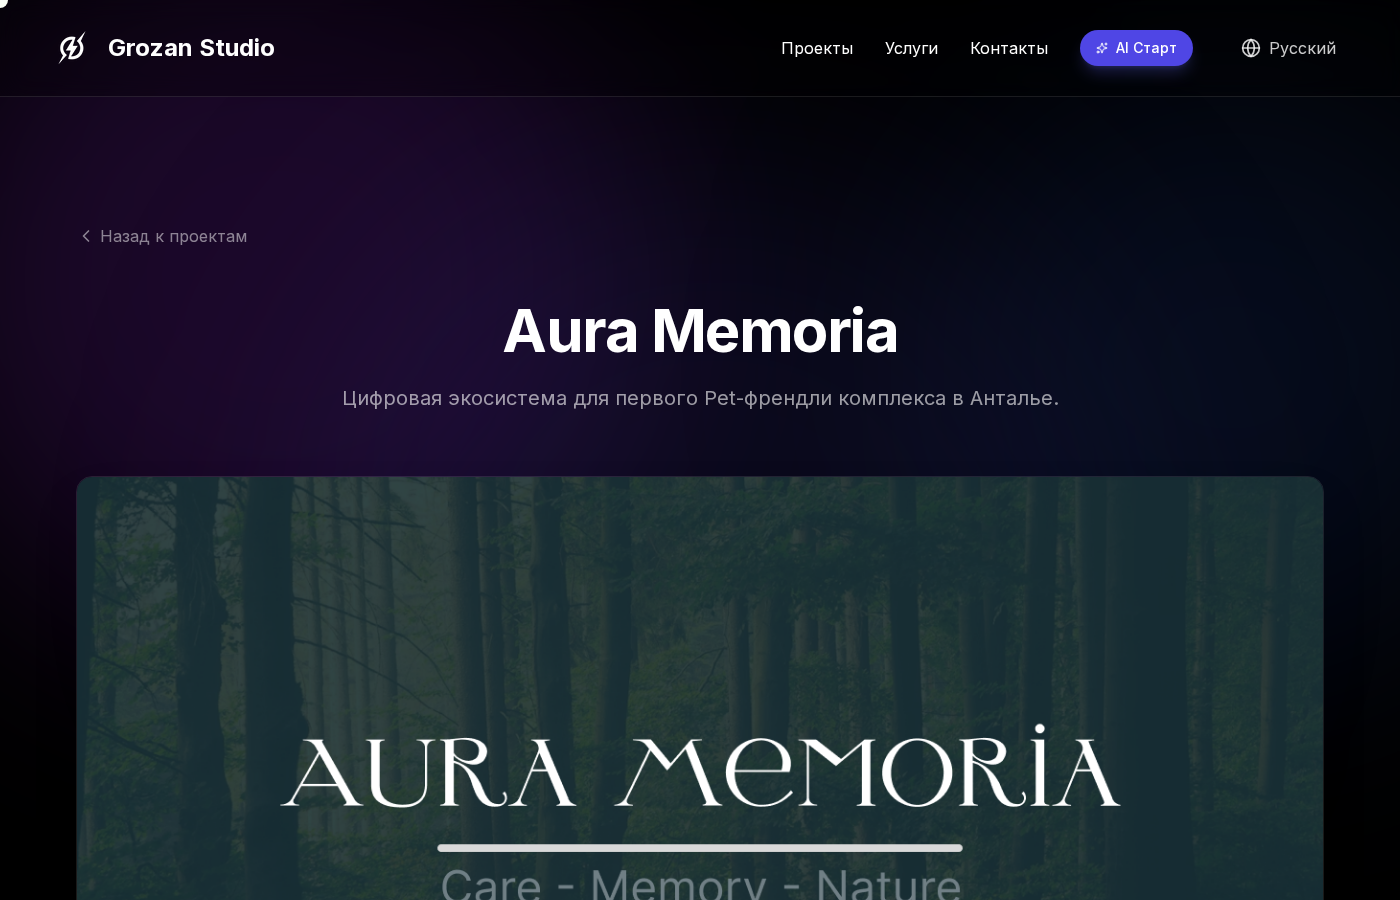
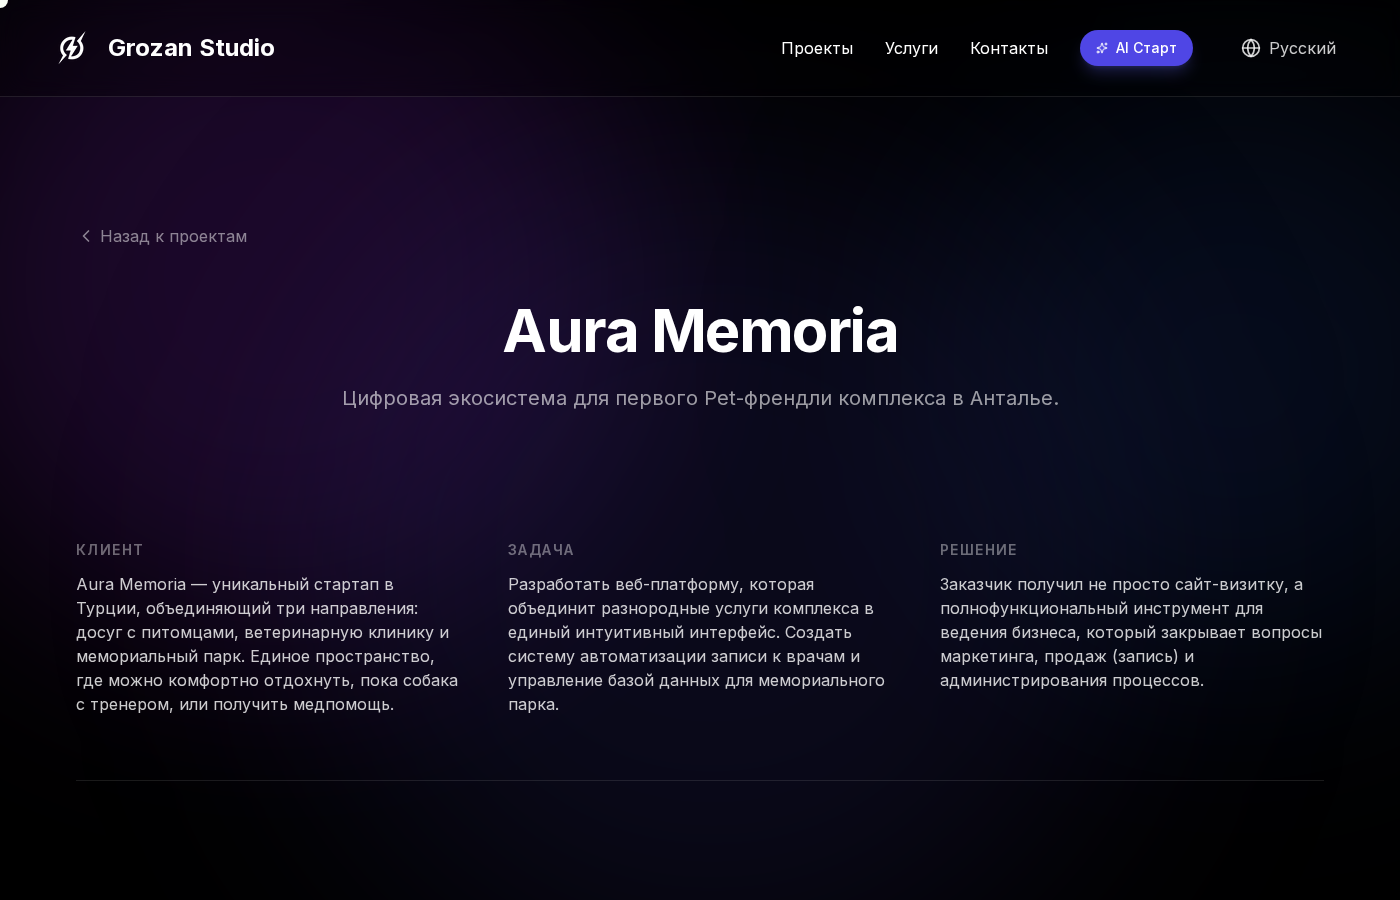
Update Aura Memoria case study with new structure and image paths
- Updated `src/data/projects.ts`:
  - Changed 'Digital Memorial' image dimensions to 1200x600.
  - Linked real image paths (`/images/am-white.png`, `am-dark.png`, etc.) for Aura Memoria.
- Updated `src/app/projects/[id]/page.tsx`:
  - Removed the cover image (preview) from the top of the page for projects using the new modular structure.
  - Ensured the `ProjectOverviewBlock` (Client/Task/Solution) appears immediately after the title.
- Updated `CompareSlider.tsx` and `ContentFeature.tsx`:
  - Added support for rendering `<img>` tags when a `url` is provided in the block data, falling back to placeholders otherwise.
- Verified changes via Playwright (screenshots confirm correct layout and removal of cover image).

diff --git a/src/components/project-blocks/CompareSlider.tsx b/src/components/project-blocks/CompareSlider.tsx
@@ -70,36 +70,53 @@ export const CompareSlider: React.FC<CompareSliderProps> = ({ block }) => {
         onClick={handleMove} // Allow click to jump
       >
         {/* Right Image (Background - Dark Mode usually) */}
-        <div className="absolute inset-0 bg-neutral-900 flex items-center justify-center">
-            {/* We use the placeholder here, but in real app it would be an <img> */}
-            <div className="absolute inset-0 flex items-center justify-center bg-[#0a0a0a]">
-                <ImagePlaceholder
-                    label={block.rightImage.label}
-                    dimensions={block.rightImage.dimensions}
-                    aspectRatio="h-full w-full"
-                    className="!bg-transparent !border-0"
-                />
-            </div>
+        <div className="absolute inset-0 bg-neutral-900 flex items-center justify-center select-none">
+            {block.rightImage.url ? (
+               <img
+                 src={block.rightImage.url}
+                 alt={block.rightImage.label}
+                 className="w-full h-full object-cover"
+                 draggable={false}
+               />
+            ) : (
+                <div className="absolute inset-0 flex items-center justify-center bg-[#0a0a0a]">
+                    <ImagePlaceholder
+                        label={block.rightImage.label}
+                        dimensions={block.rightImage.dimensions}
+                        aspectRatio="h-full w-full"
+                        className="!bg-transparent !border-0"
+                    />
+                </div>
+            )}
         </div>
 
         {/* Left Image (Foreground - Light Mode) - Clip Path controlled */}
         <div
-            className="absolute inset-0 bg-neutral-100 overflow-hidden"
+            className="absolute inset-0 bg-neutral-100 overflow-hidden select-none"
             style={{ clipPath: `inset(0 ${100 - sliderPosition}% 0 0)` }}
         >
-             <div className="absolute inset-0 flex items-center justify-center bg-[#f5f5f5]">
-                <ImagePlaceholder
-                    label={block.leftImage.label}
-                    dimensions={block.leftImage.dimensions}
-                    aspectRatio="h-full w-full"
-                    className="!bg-transparent !border-0 text-black/80"
-                />
-                 {/* Hack: Force text color to black for light mode side placeholder */}
-                <style jsx>{`
-                    .bg-\[\#f5f5f5\] p { color: #000 !important; }
-                    .bg-\[\#f5f5f5\] svg { color: #000 !important; }
-                `}</style>
-            </div>
+            {block.leftImage.url ? (
+               <img
+                 src={block.leftImage.url}
+                 alt={block.leftImage.label}
+                 className="w-full h-full object-cover"
+                 draggable={false}
+               />
+            ) : (
+                <div className="absolute inset-0 flex items-center justify-center bg-[#f5f5f5]">
+                    <ImagePlaceholder
+                        label={block.leftImage.label}
+                        dimensions={block.leftImage.dimensions}
+                        aspectRatio="h-full w-full"
+                        className="!bg-transparent !border-0 text-black/80"
+                    />
+                    {/* Hack: Force text color to black for light mode side placeholder */}
+                    <style jsx>{`
+                        .bg-\[\#f5f5f5\] p { color: #000 !important; }
+                        .bg-\[\#f5f5f5\] svg { color: #000 !important; }
+                    `}</style>
+                </div>
+            )}
         </div>
 
         {/* Slider Handle */}
@@ -120,10 +137,10 @@ export const CompareSlider: React.FC<CompareSliderProps> = ({ block }) => {
         </div>
 
         {/* Labels overlay */}
-        <div className="absolute top-4 left-4 z-10 px-3 py-1 bg-black/50 backdrop-blur-md rounded-full text-xs text-white/90 font-medium">
+        <div className="absolute top-4 left-4 z-10 px-3 py-1 bg-black/50 backdrop-blur-md rounded-full text-xs text-white/90 font-medium pointer-events-none">
             {block.leftImage.label}
         </div>
-        <div className="absolute top-4 right-4 z-10 px-3 py-1 bg-black/50 backdrop-blur-md rounded-full text-xs text-white/90 font-medium">
+        <div className="absolute top-4 right-4 z-10 px-3 py-1 bg-black/50 backdrop-blur-md rounded-full text-xs text-white/90 font-medium pointer-events-none">
             {block.rightImage.label}
         </div>
       </div>

diff --git a/src/app/projects/[id]/page.tsx b/src/app/projects/[id]/page.tsx
@@ -46,23 +46,10 @@ export default function ProjectPage({ params }: ProjectPageProps) {
         <p className="text-lg md:text-xl text-white/60 leading-relaxed">{project.description[language]}</p>
       </motion.div>
 
-      {/* Cover Image */}
-      <motion.div
-         initial={{ opacity: 0, scale: 0.95 }}
-         animate={{ opacity: 1, scale: 1 }}
-         transition={{ duration: 0.8, delay: 0.1 }}
-         className="w-full mb-16 lg:mb-24"
-      >
-          <div className="relative aspect-video rounded-2xl overflow-hidden shadow-2xl border border-white/10">
-               {/* Use the actual image if it's a real path, otherwise just placeholder if needed.
-                   Assuming coverImage is valid path like /images/aura-memoria.png */}
-               <img
-                  src={project.coverImage}
-                  alt={project.title}
-                  className="w-full h-full object-cover"
-                />
-          </div>
-      </motion.div>
+      {/*
+         Removed Cover Image rendering here based on new requirements.
+         Structure is now: Title -> Overview (Client/Task/Solution) -> Blocks
+      */}
 
       {/* --- NEW MODULAR CONTENT --- */}
       {project.overview && (
@@ -72,6 +59,33 @@ export default function ProjectPage({ params }: ProjectPageProps) {
       {/* --- LEGACY CONTENT (Fallback if no new structure) --- */}
       {!project.overview && (
         <>
+             {/* Legacy Cover Image rendering kept only for legacy projects if needed,
+                 but requirement implies removing it for Aura Memoria.
+                 Since this is a generic template, I should conditionally render it OR
+                 if the requirement "When you enter the project page the preview meets you, remove it" applies to ALL projects?
+                 The user said "Today we work on ... Aura Memoria ... I want ... on every project page ... Overview block ... Remove preview".
+                 I'll assume removing the big cover image right after title is desired for the new layout.
+                 For legacy projects, they might look empty without it?
+                 Let's keep cover image ONLY if no overview is present (Legacy fallback),
+                 OR better, let's strictly follow "Remove preview" as a general rule if that's the new style.
+                 However, to be safe and specific to Aura Memoria's "new style",
+                 I will suppress the cover image if `project.blocks` or `project.overview` is present (The new layout mode).
+             */}
+             <motion.div
+                initial={{ opacity: 0, scale: 0.95 }}
+                animate={{ opacity: 1, scale: 1 }}
+                transition={{ duration: 0.8, delay: 0.1 }}
+                className="w-full mb-16 lg:mb-24"
+             >
+                  <div className="relative aspect-video rounded-2xl overflow-hidden shadow-2xl border border-white/10">
+                      <img
+                          src={project.coverImage}
+                          alt={project.title}
+                          className="w-full h-full object-cover"
+                        />
+                  </div>
+             </motion.div>
+
             <div className="grid md:grid-cols-3 gap-8 mb-16 bg-white/5 p-8 rounded-xl border border-white/10">
                 <div>
                 <h3 className="text-xl font-bold mb-4 text-white/80">{t.projects.client}</h3>

diff --git a/src/data/projects.ts b/src/data/projects.ts
@@ -130,11 +130,13 @@ export const projects: Project[] = [
         },
         leftImage: {
           label: "Светлая тема (Light Mode)",
-          dimensions: "1920x1080" // Desktop screenshot size usually
+          dimensions: "1920x1080",
+          url: "/images/am-white.png"
         },
         rightImage: {
           label: "Темная тема (Dark Mode)",
-          dimensions: "1920x1080"
+          dimensions: "1920x1080",
+          url: "/images/am-dark.png"
         }
       },
       {
@@ -153,7 +155,8 @@ export const projects: Project[] = [
         image: {
           label: "Скриншот Личного кабинета и системы записей",
           dimensions: "1200x800",
-          position: "right"
+          position: "right",
+          url: "/images/am-lk.png"
         }
       },
       {
@@ -172,7 +175,8 @@ export const projects: Project[] = [
         image: {
           label: "Админ-панель (Таблица записей + Фильтры)",
           dimensions: "1200x800",
-          position: "bottom"
+          position: "bottom",
+          url: "/images/am-admin-panel.png"
         }
       },
       {
@@ -190,8 +194,9 @@ export const projects: Project[] = [
         },
         image: {
           label: "Страница Мемориального парка",
-          dimensions: "800x600",
-          position: "left"
+          dimensions: "1200x600",
+          position: "left",
+          url: "/images/am-park.png"
         }
       }
     ]

diff --git a/src/components/project-blocks/ContentFeature.tsx b/src/components/project-blocks/ContentFeature.tsx
@@ -59,11 +59,22 @@ export const ContentFeature: React.FC<ContentFeatureProps> = ({ block }) => {
                viewport={{ once: true }}
                transition={{ duration: 0.6, delay: 0.2 }}
              >
-                <ImagePlaceholder
-                    label={block.image.label}
-                    dimensions={block.image.dimensions}
-                    className="shadow-2xl border-white/5"
-                />
+                {block.image.url ? (
+                  <div className="relative rounded-xl overflow-hidden shadow-2xl border border-white/5">
+                    <img
+                      src={block.image.url}
+                      alt={block.image.label}
+                      className="w-full h-auto object-cover"
+                    />
+                    {/* Optional: Simple dimension label overlay if desired for debugging, but usually cleaner without */}
+                  </div>
+                ) : (
+                  <ImagePlaceholder
+                      label={block.image.label}
+                      dimensions={block.image.dimensions}
+                      className="shadow-2xl border-white/5"
+                  />
+                )}
              </motion.div>
           </div>
         )}
